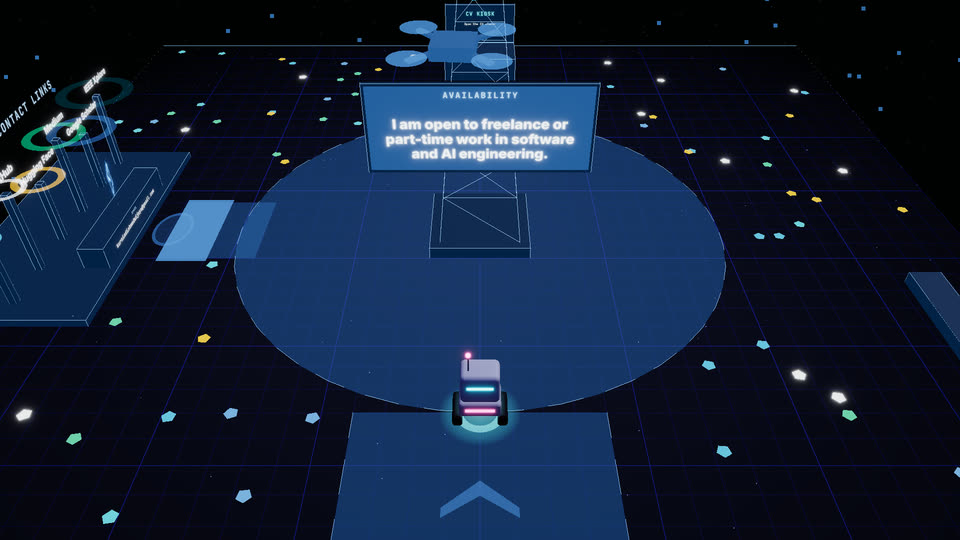
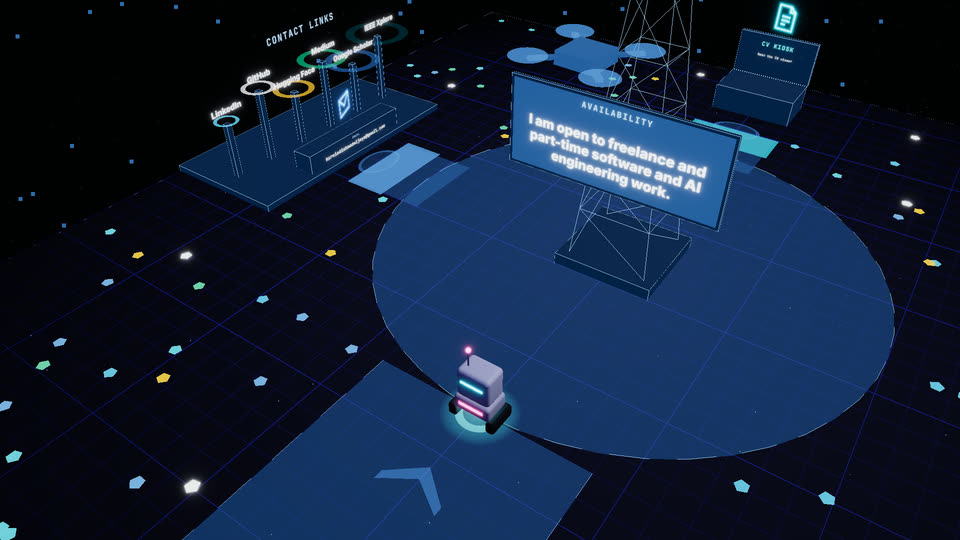
docs(readme): refresh the hero and stills, Highlights Hall, current versions, tighter layout (#410)
* fix(content): point the Gen AI Leader badge at its final Credly URL

* docs(readme): hero runs through the Highlights Hall to the Wins station

* docs(readme): profile-style badges with current versions

* docs(readme): type the hidden drawer style element

* docs(readme): Highlights Hall line, tighter architecture, quick start, structure and docs

* docs(readme): faster hero approach and drive back; the still is the Impact Orbit pass

* docs(readme): Cloudflare badge links to the Pages docs (no redirect)

* docs(readme): quicker L3 ride and shorter holds to keep the hero under 6 MB

* docs(readme): 96-colour GIF palette keeps the hero under 6 MB

* docs(readme): re-capture the hero and floor stills from the current build

* docs(readme): current versions in the stack table

* docs(readme): keep the deploy line under 300 characters

* docs(readme): shorter badge messages so the version row fits one line

* docs(readme): Bun badge on the status row so both rows fit

diff --git a/scripts/readme-hero.ts b/scripts/readme-hero.ts
@@ -1,6 +1,6 @@
 #!/usr/bin/env bun
 /**
- * README media: the animated hero (boot card, intro, a boosted drive on L1, an elevator ride to
+ * README media: the animated hero (boot card, intro, a drive into the L1 Highlights Hall, an elevator ride to
  * L3 Project Roads) and one settled still per floor, captured from the static export.
  *
  *   bun run build && bun scripts/readme-hero.ts     # needs ffmpeg and gifsicle (brew install ffmpeg gifsicle)
@@ -18,10 +18,11 @@
  * the Ask AI pill shows as in production.
  */
 import { spawn, spawnSync } from "node:child_process";
-import { mkdirSync, readdirSync, rmSync, statSync } from "node:fs";
+import { existsSync, mkdirSync, readdirSync, readFileSync, rmSync, statSync, writeFileSync } from "node:fs";
 import { join } from "node:path";
 import { chromium, type Browser, type Page } from "@playwright/test";
 import { driveUntil, installVirtualClock, stepFrames, waitForQuiet } from "../e2e/vclock";
+import { stationOf } from "../src/experience/floors/lobby/hallLayout";
 
 const args = process.argv.slice(2);
 const framesOnly = args.includes("--frames-only");
@@ -29,11 +30,13 @@ const encodeOnly = args.includes("--encode-only");
 const PORT = 4391;
 const BASE = `http://127.0.0.1:${PORT}`;
 const FRAMES = "test-results/readme-hero";
+/** The hero frame index for hero.jpg (the reduced-motion still), written during the capture. */
+const STILL = join(FRAMES, "still.txt");
 const OUT = "docs/readme";
 /** At or above 1024 px the HUD stays on one row; DPR 1.6 gives 1920x1080 frames to downscale. */
 const VIEWPORT = { width: 1200, height: 675 };
 const DPR = 1.6;
-/** Captured at 20 fps (the preview MP4); the GIF keeps 10 fps, undithered, to stay under 6 MB. */
+/** Captured at 20 fps (the preview MP4); the GIF keeps 10 fps, 96 colours undithered, to stay under 6 MB. */
 const FPS = 20;
 const GIF_FPS = 10;
 const STRIDE = 60 / FPS;
@@ -53,9 +56,18 @@ const SETTLE_FRAME = 600;
 type HQ = {
   __hq: {
     store: { getState(): { phase: string; floor: string; ride: { stage: string } | null; goToFloor(f: string): void } };
-    rover: { drawCalls: number; speed: number; autopilot: { state: string } | null };
+    rover: { x: number; drawCalls: number; speed: number; autopilot: { state: string } | null };
+    probes: { hallPremium: { state: string; wake: Record<string, number> } };
   };
 };
+
+/** The autopilot done and the rover nearly stopped (on a door pad the room opens, so any phase). */
+const parked = () => {
+  const w = window as unknown as HQ;
+  const state = w.__hq.rover.autopilot?.state;
+  return state !== "pending" && state !== "driving" && w.__hq.rover.speed < 0.3;
+};
+const hallReady = () => (window as unknown as HQ).__hq.probes.hallPremium.state === "ready";
 
 const live = () => {
   const w = window as unknown as Partial<HQ>;
@@ -92,7 +104,7 @@ async function recordUntil(page: Page, check: () => boolean, max: number, stride
 let statsBody: string | null = null;
 async function loadStats() {
   try {
-    const res = await fetch("https://kurniadi.pages.dev/api/stats");
+    const res = await fetch("https://shinyq.my.id/api/stats");
     if (res.status === 200) statsBody = await res.text();
   } catch {}
 }
@@ -139,18 +151,27 @@ async function hero(browser: Browser) {
     await recordUntil(page, () => (window as unknown as HQ).__hq.store.getState().phase === "explore", 600, STRIDE * 3);
     await record(page, 18);
 
-    // 3. Boosted drive past the hologram (Shift + S: toward the camera from the spawn view), then a glide.
-    await page.keyboard.down("Shift");
-    await page.keyboard.down("s");
-    await record(page, 66);
-    await page.keyboard.up("s");
-    await page.keyboard.up("Shift");
-    await record(page, 15);
+    // 3. Highlights Hall: autopilot along the lead road under the gateway arch (its light curtain sweeps once), down the
+    // spine between the Impact Orbit and the Signal Spire to the Wins station, which wakes (its drawer stays hidden).
+    if (!(await page.evaluate(hallReady))) await driveUntil(page, hallReady, { maxFrames: 1200, batch: 10 });
+    const drawer = await page.addStyleTag({ content: '[data-testid="room-drawer"] { visibility: hidden !important; }' });
+    await page.evaluate((point) => {
+      (window as unknown as { __hq: { rover: { autopilot: unknown } } }).__hq.rover.autopilot = { point, state: "pending" };
+    }, stationOf("wins").pad);
+    // The Lobby approach at 5x up to the lead road, the gate and the plaza at 2x; the still is the Impact Orbit pass.
+    await recordUntil(page, () => (window as unknown as HQ).__hq.rover.x > 26, 3600, STRIDE * 5);
+    await recordUntil(page, () => (window as unknown as HQ).__hq.rover.x > 46, 1800, STRIDE * 2);
+    writeFileSync(STILL, String(shot - 1));
+    await recordUntil(page, parked, 1800, STRIDE * 2);
+    await recordUntil(page, () => (window as unknown as HQ).__hq.probes.hallPremium.wake.wins > 0.99, 600);
+    await record(page, 12);
+    await page.keyboard.press("Escape");
+    await drawer.evaluate((el) => (el as Element).remove());
 
-    // 4. Elevator to L3: the drive to the car at 3x, the ride at 1x, the roll-on at 2x, then a hold.
+    // 4. Elevator to L3: the drive back to the car at 6x, the ride at about 1.7x, the roll-on at 3x, then a hold.
     await page.evaluate(() => (window as unknown as HQ).__hq.store.getState().goToFloor("L3"));
-    await recordUntil(page, () => (window as unknown as HQ).__hq.store.getState().ride?.stage === "moving", 1800, STRIDE * 3);
-    await recordUntil(page, () => (window as unknown as HQ).__hq.store.getState().floor === "L3", 1800);
+    await recordUntil(page, () => (window as unknown as HQ).__hq.store.getState().ride?.stage === "moving", 3600, STRIDE * 6);
+    await recordUntil(page, () => (window as unknown as HQ).__hq.store.getState().floor === "L3", 1800, 5);
     await recordUntil(
       page,
       () => {
@@ -160,9 +181,9 @@ async function hero(browser: Browser) {
         return s.phase === "explore" && !s.ride && state !== "pending" && state !== "driving" && w.__hq.rover.speed < 0.3;
       },
       2400,
-      STRIDE * 2,
+      STRIDE * 3,
     );
-    await record(page, 36);
+    await record(page, 18);
   } finally {
     await context.close();
   }
@@ -239,9 +260,10 @@ if (!framesOnly && !ONLY) {
   const input = ["-framerate", String(FPS), "-i", join(FRAMES, "%04d.png")];
   ff(...input, "-vf", "scale=1280:-2:flags=lanczos", "-c:v", "libx264", "-pix_fmt", "yuv420p", "-crf", "26", "-preset", "slow", "-movflags", "+faststart", join(FRAMES, "hero.mp4"));
   const raw = join(FRAMES, "hero-raw.gif");
-  ff(...input, "-vf", `fps=${GIF_FPS},scale=960:-1:flags=lanczos,split[a][b];[a]palettegen=max_colors=128:stats_mode=diff[p];[b][p]paletteuse=dither=none:diff_mode=rectangle`, "-loop", "0", raw);
+  ff(...input, "-vf", `fps=${GIF_FPS},scale=960:-1:flags=lanczos,split[a][b];[a]palettegen=max_colors=96:stats_mode=diff[p];[b][p]paletteuse=dither=none:diff_mode=rectangle`, "-loop", "0", raw);
   const lossy = spawnSync("gifsicle", ["-O3", "--lossy=100", raw, "-o", join(OUT, "hero.gif")], { stdio: "inherit" });
   if (lossy.status !== 0) throw new Error("gifsicle failed");
-  ff("-i", framePath(Math.round(shot * Number(process.env.HERO_STILL ?? 0.3))), "-vf", "scale=1600:-1:flags=lanczos", "-q:v", "3", join(OUT, "hero.jpg"));
+  const still = process.env.HERO_STILL ? Math.round(shot * Number(process.env.HERO_STILL)) : existsSync(STILL) ? Number(readFileSync(STILL, "utf8")) : Math.round(shot * 0.3);
+  ff("-i", framePath(still), "-vf", "scale=1600:-1:flags=lanczos", "-q:v", "3", join(OUT, "hero.jpg"));
   for (const f of readdirSync(OUT).sort()) console.log(`${f}: ${(statSync(join(OUT, f)).size / 1024).toFixed(0)} KB`);
 }

diff --git a/README.md b/README.md
@@ -8,30 +8,30 @@
 
 Pilot a small Screen Rover through five floors of projects, career, writing and contact details, or read it all as a fast, accessible website.
 
-[![CI](https://github.com/ShinyQ/ShinyQ-HQ/actions/workflows/ci.yml/badge.svg?branch=main)](https://github.com/ShinyQ/ShinyQ-HQ/actions/workflows/ci.yml)
-[![Deploy](https://github.com/ShinyQ/ShinyQ-HQ/actions/workflows/deploy.yml/badge.svg)](https://github.com/ShinyQ/ShinyQ-HQ/actions/workflows/deploy.yml)
-[![Live site](https://img.shields.io/badge/live-shinyq.my.id-22d3ee?logo=cloudflarepages&logoColor=white)](https://shinyq.my.id)
+[![CI](https://img.shields.io/github/actions/workflow/status/ShinyQ/ShinyQ-HQ/ci.yml?branch=main&label=CI&logo=githubactions&logoColor=white&style=flat-square&labelColor=0B0A20)](https://github.com/ShinyQ/ShinyQ-HQ/actions/workflows/ci.yml)
+[![Deploy](https://img.shields.io/github/actions/workflow/status/ShinyQ/ShinyQ-HQ/deploy.yml?branch=main&label=Deploy&logo=cloudflarepages&logoColor=white&style=flat-square&labelColor=0B0A20)](https://github.com/ShinyQ/ShinyQ-HQ/actions/workflows/deploy.yml)
+[![Live site](https://img.shields.io/badge/live-shinyq.my.id-6EE7FF?logo=googlechrome&logoColor=white&style=flat-square&labelColor=0B0A20)](https://shinyq.my.id)
+[![Bun 1.4.3](https://img.shields.io/badge/Bun-1.4.3-6EE7FF?logo=bun&logoColor=white&style=flat-square&labelColor=0B0A20)](https://bun.sh)
 <br>
-[![Next.js 16](https://img.shields.io/badge/Next.js-16-000000?logo=nextdotjs&logoColor=white)](https://nextjs.org)
-[![React 19](https://img.shields.io/badge/React-19-149eca?logo=react&logoColor=white)](https://react.dev)
-[![three.js](https://img.shields.io/badge/three.js-R3F-000000?logo=threedotjs&logoColor=white)](https://threejs.org)
-[![TypeScript](https://img.shields.io/badge/TypeScript-strict-3178c6?logo=typescript&logoColor=white)](https://www.typescriptlang.org)
-[![Tailwind CSS 4](https://img.shields.io/badge/Tailwind_CSS-4-06b6d4?logo=tailwindcss&logoColor=white)](https://tailwindcss.com)
-[![Cloudflare](https://img.shields.io/badge/Cloudflare-Pages_%2B_Workers_AI-f38020?logo=cloudflare&logoColor=white)](https://pages.cloudflare.com)
-[![Bun](https://img.shields.io/badge/Bun-1.4.3-000000?logo=bun&logoColor=white)](https://bun.sh)
+[![Next.js 16.4.5](https://img.shields.io/badge/Next.js-16.4.5-6EE7FF?logo=nextdotjs&logoColor=white&style=flat-square&labelColor=0B0A20)](https://nextjs.org)
+[![React 19.3](https://img.shields.io/badge/React-19.3-A78BFA?logo=react&logoColor=white&style=flat-square&labelColor=0B0A20)](https://react.dev)
+[![three.js r187](https://img.shields.io/badge/three.js-r187-6EE7FF?logo=threedotjs&logoColor=white&style=flat-square&labelColor=0B0A20)](https://threejs.org)
+[![TypeScript 6](https://img.shields.io/badge/TypeScript-6.0-A78BFA?logo=typescript&logoColor=white&style=flat-square&labelColor=0B0A20)](https://www.typescriptlang.org)
+[![Tailwind CSS 4.3](https://img.shields.io/badge/Tailwind_CSS-4.3-6EE7FF?logo=tailwindcss&logoColor=white&style=flat-square&labelColor=0B0A20)](https://tailwindcss.com)
+[![Cloudflare](https://img.shields.io/badge/Cloudflare-Pages_%2B_Workers_AI-A78BFA?logo=cloudflare&logoColor=white&style=flat-square&labelColor=0B0A20)](https://developers.cloudflare.com/pages/)
 
-**[Live site](https://shinyq.my.id)** · **[Classic site](https://shinyq.my.id/en?view=classic)** · **[Ask the HQ](docs/features.md#ask-the-hq-ai-qa)** · **[Features](docs/features.md)** · **[Docs](#docs)**
+**[Enter the 3D HQ](https://shinyq.my.id/en?view=3d)** · **[Classic site](https://shinyq.my.id/en?view=classic)** · **[Ask the HQ](docs/features.md#ask-the-hq-ai-qa)** · **[Features](docs/features.md)** · **[Docs](#docs)**
 
 <br>
 
 <a href="https://shinyq.my.id">
   <picture>
     <source media="(prefers-reduced-motion: reduce)" srcset="docs/readme/hero.jpg">
-    <img src="docs/readme/hero.gif" width="960" alt="Boot card, the intro (Rover wakes up and the camera orbits the Lobby as its landmarks light up), a boosted drive past the profile hologram, and an elevator ride up to the three L3 Project Roads directory boards">
+    <img src="docs/readme/hero.gif" width="960" alt="Boot card, the intro (Rover wakes up and the camera orbits the Lobby as its landmarks light up), a drive under the Highlights Hall gate past the Impact Orbit to the Wins trophy as it wakes, and an elevator ride up to the three L3 Project Roads directory boards">
   </picture>
 </a>
 
-<sub>Boot, intro, a boosted drive through the Lobby and an elevator ride to L3. Captured from the production build with <code>bun scripts/readme-hero.ts</code>.</sub>
+<sub>Boot, intro, a run through the Highlights Hall and an elevator ride to L3, captured from the production build (<code>bun scripts/readme-hero.ts</code>).</sub>
 
 </div>
 
@@ -49,22 +49,23 @@ Every piece of content is also a normal, accessible, bilingual (EN / ID) HTML pa
 ## Highlights
 
 - **Walkable 3D tower** in React Three Fiber: roads, plazas, teleporters, a glass elevator, five themed floors and a secret B1 Engine Room that opens once all five are visited.
+- **Highlights Hall**: one gate off the Lobby into a neon gallery of seven station exhibits around two light centrepieces, the Impact Orbit and the Signal Spire.
 - **Point-and-go**: hover or tap any glowing object to see its name and drive there; WASD, joystick and Shift boost too.
 - **Day and night**: a 4 minute twilight and neon night cycle from clock time, with a sun and moon that rise and set.
-- **Rover's onboarding**: a handheld-RPG text box introduction and "!" hint bubbles, plus the Rover menu (`>_`) with shortcuts to the best rooms.
-- **Ask the HQ** (shown as Ask Rover Assistant): grounded AI Q&A about the work, the career and this site, in Rover's own voice, on Workers AI (Gemma 4, then Mistral) with Groq as the backup and a knowledge pack in Workers KV, Turnstile, rate limits and output checks.
-- **Live Agent Office**: an L1 wing where ten Rovers mirror the owner's AI coding agents (Copilot, Claude Code, Codex) live, with helper drones, a ship-it pipeline tower and a day replay; also a card on the Classic home.
-- **Study guides**: certification study guides read in the site (a pdf.js reader over byte ranges from a private R2 bucket), from the Writing shelf, the certification dialogs and the L4 Study Vault.
+- **Rover's onboarding**: a handheld-RPG text box intro, "!" hint bubbles and the Rover menu (`>_`) with shortcuts to the best rooms.
+- **Ask the HQ** (shown as Ask Rover Assistant): grounded AI Q&A in Rover's voice on Workers AI (Gemma 4, then Mistral, Groq as the backup) over a knowledge pack in Workers KV, behind Turnstile, rate limits and output checks.
+- **Live Agent Office**: an L1 wing where ten Rovers mirror the owner's AI coding agents (Copilot, Claude Code, Codex) live, with a ship-it pipeline tower and a day replay.
+- **Study guides**: certification study guides in a pdf.js reader over byte ranges from a private R2 bucket.
 - **Glass Drawer**: one shared room panel with tabs, galleries, architecture holograms and a README terminal view.
-- **Public visit stats**: the site's own visit count (live today, an hourly rollup by a Cron Worker), shown as a hologram globe in the Lobby.
-- **Classic site**: static export, Lighthouse-gated (LCP under 2 s), fully bilingual, works without JavaScript.
-- **Performance gates in CI**: draw calls, triangles, shader programs, GPU memory and JS bytes on every PR that touches 3D code, on `main` and nightly.
+- **Public visit stats**: the site's own visit count (live today, an hourly Cron Worker rollup) on a hologram globe in the Lobby.
+- **Classic site**: static export, Lighthouse-gated (LCP under 2 s), fully bilingual, Atom feeds per locale, works without JavaScript.
+- **Performance gates in CI**: draw calls, triangles, shader programs, GPU memory and JS bytes on every PR that touches 3D code.
 
 ## The tower
 
 | | Floor | Route | What is there |
 |---|---|---|---|
-| <img src="docs/readme/floor-L1.jpg" width="300" alt="L1 Lobby"> | **L1 Lobby** | [`/en`](https://shinyq.my.id/en) | Profile hologram, stats ring, skills and certification walls, the Rover menu kiosk, the Visitor Observatory and the Agent Office. Behind it, the Highlights Hall. |
+| <img src="docs/readme/floor-L1.jpg" width="300" alt="L1 Lobby"> | **L1 Lobby** | [`/en`](https://shinyq.my.id/en) | Profile hologram, stats ring, skills and certification walls, the Rover menu kiosk, the Visitor Observatory and the Agent Office. Through one gate, the Highlights Hall: seven neon exhibits, the Impact Orbit and the Signal Spire. |
 | <img src="docs/readme/floor-L2.jpg" width="300" alt="L2 Career Road"> | **L2 Career Road** | [`/en/journey`](https://shinyq.my.id/en/journey) | One road forward in time: a plaza per year, rooms on both edges, teleporters, and the Workshop with a repo skyline. |
 | <img src="docs/readme/floor-L3.jpg" width="300" alt="L3 Project Roads"> | **L3 Project Roads** | [`/en/labs`](https://shinyq.my.id/en/labs) | Three roads leave the hub past three directory boards: Product Engineering north, AI Engineering south and the Data and ML spine straight to the Tech Reactor, where the wing roads meet it mirrored. Plus the Ops Control Room. |
 | <img src="docs/readme/floor-L4.jpg" width="300" alt="L4 Newsroom"> | **L4 Newsroom** | [`/en/library`](https://shinyq.my.id/en/library) | Headline wall, reader track shelves (one bay per theme, its best post face-out first), research, models and talks desks, the Topic Constellation and the Study Vault of certification study guides. |
@@ -90,7 +91,7 @@ flowchart TB
 
   subgraph databox["Storage and analytics"]
     kv[("KV<br/>knowledge pack, answer cache,<br/>stats snapshot")]
-      ae[("Analytics Engine<br/>ask, perf, visit events")]
+    ae[("Analytics Engine<br/>ask, perf, visit events")]
     wa["Web Analytics"]
   end
 
@@ -120,42 +121,37 @@ flowchart TB
 ```
 
 - **Content is data**: `content/site-content.json` (zod-validated, every string `{ en, id }`) generates pages, rooms, pods and missions.
-- **Static first**: `output: "export"`, no server runtime. The 3D tower is a lazy client chunk portaled over the HTML page, which stays the SEO and no-WebGL tier.
-- **One store, one intent bus**: input sources emit intents, a Director drives the elevator, rover and store each frame; the HUD talks to the scene only through the store.
-- **AI behind a pipeline**: kill switch, Turnstile, rate limits, PII scrub, retrieval from a knowledge pack in Workers KV (versioned pointer, bundled fallback), model call, output checks, KV cache.
-- **Agent Office**: `office-relay` hooks post signed beats, GitHub webhooks add runs and merges; the `hq-office` Durable Object keeps the live snapshot and an 8-day log, reached only through the Pages service binding.
-- **Anonymous stats**: beacons write to Analytics Engine; a Cron Worker rolls up finalized UTC days into one KV snapshot.
+- **Static first**: `output: "export"`, no server runtime; the 3D tower is a lazy client chunk over the HTML page, which stays the SEO and no-WebGL tier.
+- **One store, one intent bus**: inputs emit intents, a Director drives the elevator, rover and store each frame; the HUD reaches the scene only through the store.
+- **AI behind a pipeline**: kill switch, Turnstile, rate limits, PII scrub, retrieval from the KV knowledge pack, model call, output checks, cache.
+- **Agent Office and stats**: signed relay beats and GitHub webhooks feed the `hq-office` Durable Object (live snapshot, 8-day log); visit beacons roll up hourly into one KV snapshot.
 
 ## Tech stack
 
 | Layer | Technology |
 |---|---|
-| Framework | Next.js 16 (App Router, static export), React 19, TypeScript strict |
-| 3D | three.js, React Three Fiber, drei, postprocessing, troika text |
+| Framework | Next.js 16.4 (App Router, static export), React 19.3, TypeScript 6 strict |
+| 3D | three.js r187, React Three Fiber 9, drei 10, postprocessing, troika text |
 | State and i18n | zustand, next-intl, zod, MDX (next-mdx-remote) |
-| Styling | Tailwind CSS 4, Neon Grid design tokens, self-hosted subset fonts |
+| Styling | Tailwind CSS 4.3, Neon Grid design tokens, self-hosted subset fonts |
 | Edge and AI | Cloudflare Pages, Pages Functions, Workers AI, AI Gateway, Groq, KV, R2, Durable Objects, Analytics Engine, Turnstile, Cron Worker |
 | Testing | Vitest, Testing Library, Playwright (WebGL on SwiftShader), Lighthouse CI |
 | Tooling | Bun 1.4.3, Node 24.22.1 (pinned), ESLint, wrangler, GitHub Actions, gitleaks, Dependabot |
 
 ## Quick start
 
-Prerequisites: [Bun](https://bun.sh) 1.4.3 (`packageManager` in `package.json`), Node 24.22.1 (`.nvmrc`) and Chromium for the e2e tests.
+Needs [Bun](https://bun.sh) 1.4.3 (`packageManager` in `package.json`), Node 24.22.1 (`.nvmrc`) and Chromium for the e2e tests.
 
 ```bash
-bun install
-bunx playwright install chromium   # needed for the e2e tests
-bun run dev                        # http://localhost:3000/en
+bun install && bunx playwright install chromium
+bun run dev                         # http://localhost:3000/en
+bun run build && bun run serve      # static export to out/, served like Cloudflare Pages at http://127.0.0.1:4173/en
+bun run verify:quick                # typecheck, lint, unit tests, build and social cards: the pre-push check
+bun run e2e:changed                 # only the Playwright specs your changed paths affect (--dry prints the plan)
 ```
 
-Build and serve the static export like Cloudflare Pages does:
-
-```bash
-bun run build                      # static export to out/
-bun run serve                      # http://127.0.0.1:4173/en
-```
-
-### Scripts
+<details>
+<summary><b>All scripts</b></summary>
 
 | Script | What it does |
 |---|---|
@@ -167,12 +163,6 @@ bun run serve                      # http://127.0.0.1:4173/en
 | `bun run test` | Vitest unit, content and safety tests |
 | `bun run verify:quick` | Typecheck, lint, unit tests, build and social-card check: the pre-push check |
 | `bun run e2e:changed` | Playwright specs that cover your changed paths (`--dry` prints the plan) |
-
-<details>
-<summary><b>All scripts</b></summary>
-
-| Script | What it does |
-|---|---|
 | `bun run build:web` | Same as `build`, kept as an alias |
 | `bun run test:watch` | Vitest in watch mode |
 | `bun run bench` | Vitest benches (`tests/bench/`): `findPath` on the real floor layouts and palette typing against the pre-round-5 code; numbers for PR bodies, never a CI gate |
@@ -222,34 +212,24 @@ Section anchors, filters and deep links per route: [docs/features.md](docs/featu
 ## Project structure
 
 ```text
-content/         dataset, blog MDX, Ask knowledge and suggestions, perspectives, study guides, product allowlist, generated facts
-messages/        UI strings (en, id)
-functions/       Cloudflare Pages Functions: /api/ask, /api/rum, /api/visit, /api/stats, /api/guides/{slug}, /api/office
-workers/stats/   hq-stats Cron Worker: public visit stats rollup every hour into KV, live visit count
-workers/office/  hq-office Worker and Durable Object: the Agent Office state and 8-day log
-tools/           office-relay: the local agent hooks and installer for the Agent Office
-src/
-  app/           routes ([locale] pages, "/" redirect, OG cards, 404)
-  components/    Classic site UI, modals, CV and paper viewers
-  content/       schema, accessors, selectors, room views, forbidden patterns lint
-  experience/    3D tower: scene, floors, rover, camera, input, nav, missions
-  hud/           HTML HUD over the canvas: drawer, dialog, Ask dock, pickers
-  ask/           Ask client, protocol, knowledge pack
-  lib/ store/ i18n/
-scripts/         build steps, static server, e2e planning, renderers, evals, provisioning
-tests/           Vitest unit, content, HUD and Ask tests
-e2e/             Playwright suites, budgets and the perf lane
-docs/            features, content guide, design specs, plans, deploy, runbooks
+content/     dataset, blog MDX, Ask knowledge, perspectives, study guides, product allowlist, generated facts
+messages/    UI strings (en, id)
+src/         app routes, Classic UI, content schema and room views, 3D tower (experience/), HUD, Ask client, lib, store
+functions/   Pages Functions: /api/ask, /api/rum, /api/visit, /api/stats, /api/guides/{slug}, /api/office
+workers/     hq-stats Cron Worker (visit stats rollup), hq-office Worker and Durable Object (Agent Office)
+tools/       office-relay: local agent hooks and installer for the Agent Office
+scripts/     build steps, static server, e2e planning, renderers, evals, provisioning
+tests/ e2e/  Vitest unit, content, HUD and Ask tests; Playwright suites, budgets and the perf lane
+docs/        features, content guide, design specs, plans, deploy, runbooks, README media
 ```
 
 The full annotated layout is in [`docs/agents/folder-layout.md`](docs/agents/folder-layout.md).
 
 ## Testing and CI
 
-- **Locally**: `bun run verify:quick` then `bun run e2e:changed` before every push (about 5 minutes). Add `bun run e2e:perf` when touching the render path.
-- **CI** (`ci.yml`): check and build in parallel; on a PR, smart CI runs only the Playwright specs, 3D perf tests and Lighthouse URLs the changed paths affect; `main` runs the complement of the merged PR's green run, the nightly everything (6 e2e and 4 perf shards). `main` accepts changes only through PRs with green checks.
-- **Scheduled**: a full CI run, Ask evals against the real models, the game-first timeline trend and screenshots nightly; live facts and content-gap reports weekly; an hourly uptime check that keeps one `uptime` issue open while production fails.
-- **Security**: every HTML page carries its own script policy with the sha256 of each inline script (no `'unsafe-inline'`), checked by the build, the export script policy check, the deploy smoke check and e2e; gitleaks, a forbidden patterns lint over the content and SHA-pinned actions.
+- **Smart CI** (`ci.yml`): a PR runs only the Playwright specs, 3D perf tests and Lighthouse URLs its changed paths affect; `main` runs the complement of the merged PR's green run, the nightly everything (6 e2e and 4 perf shards). `main` takes changes only through PRs with green checks.
+- **Scheduled**: nightly full CI, Ask evals against the real models, timeline trend and screenshots; weekly live facts and content-gap reports; an hourly uptime check.
+- **Security**: a per-page script policy with the sha256 of each inline script (no `'unsafe-inline'`), checked at build, deploy and in e2e; gitleaks, a forbidden patterns lint over the content and SHA-pinned actions.
 
 | Gate | Budget |
 |---|---|
@@ -267,7 +247,7 @@ Details: [docs/features.md](docs/features.md#performance) and [`docs/agents/perf
 ## Deploy
 
 Production is the Cloudflare Pages project `kurniadi` at [shinyq.my.id](https://shinyq.my.id) (`kurniadi.pages.dev` redirects to it).
-`deploy.yml` runs on every merge to `main` (at once if the PR was green on the same tree, else after `main` CI), on dispatch and on the weekly facts merge: the `hq-office` Worker, `out/` plus `functions/`, a smoke check, then the `hq-stats` Worker. A red `main` CI rolls production back (`rollback.yml`).
+`deploy.yml` runs on every merge to `main` (at once if the PR was green on the same tree, else after `main` CI), on dispatch and on the weekly facts merge: `hq-office`, `out/` plus `functions/`, a smoke check, then `hq-stats`. A red `main` CI rolls production back (`rollback.yml`).
 
 Secrets, variables, Cloudflare resources and budgets: [docs/deploy.md](docs/deploy.md).
 
@@ -277,17 +257,11 @@ Secrets, variables, Cloudflare resources and budgets: [docs/deploy.md](docs/depl
 |---|---|
 | [`docs/features.md`](docs/features.md) | Every feature floor by floor, controls, Ask the HQ, CI, performance, status log |
 | [`docs/content.md`](docs/content.md) | Dataset, posts, perspectives, galleries, certifications, CV and paper PDFs, study guides, build story, public safety |
-| [`AGENTS.md`](AGENTS.md) | Repo conventions for contributors and agents: hard rules, workflow, key commands, budgets, index of the detail docs |
-| [`docs/agents/`](docs/agents/) | Detail rules by area: 3D experience, floors, HUD and drawer, content, styling, Ask, stats, Agent Office, performance, CI |
-| [`docs/decisions.md`](docs/decisions.md) | Dated log of owner decisions |
-| [Design spec](docs/superpowers/specs/2026-10-09-agent-hq-design.md) | Agent HQ design and appendices `agent-hq/01..08` |
-| [Ask the HQ design](docs/superpowers/specs/2026-10-11-ask-hq-design.md) | Models, security threat model, data freshness |
-| [`docs/superpowers/`](docs/superpowers/README.md) | Implementation plans and design specs with their status and PRs |
+| [`AGENTS.md`](AGENTS.md), [`docs/agents/`](docs/agents/) | Repo conventions for contributors and agents (hard rules, workflow, key commands, budgets) and the detail rules by area |
+| [`docs/decisions.md`](docs/decisions.md), [`docs/superpowers/`](docs/superpowers/README.md) | Dated owner decisions; implementation plans and design specs with their status and PRs |
+| [Design spec](docs/superpowers/specs/2026-10-09-agent-hq-design.md), [Ask the HQ design](docs/superpowers/specs/2026-10-11-ask-hq-design.md) | Agent HQ design and appendices `agent-hq/01..08`; Ask models, threat model, data freshness |
 | [`docs/deploy.md`](docs/deploy.md) | Deploys, secrets and variables, analytics, Cloudflare resources, Lighthouse budgets, headers |
-| [`docs/ask-runbook.md`](docs/ask-runbook.md) | Ask the HQ operations: provisioning, kill switch, cache purge, secret rotation, evals |
-| [`docs/study-guides-runbook.md`](docs/study-guides-runbook.md) | Study guides: preparing PDFs, the R2 bucket, the reader |
-| [`workers/stats/README.md`](workers/stats/README.md) | hq-stats Cron Worker runbook |
-| [`workers/office/README.md`](workers/office/README.md), [`tools/office-relay/README.md`](tools/office-relay/README.md) | Agent Office runbooks: the hq-office Worker, and the office-relay agent hooks |
+| Runbooks | [Ask the HQ](docs/ask-runbook.md), [study guides](docs/study-guides-runbook.md), [hq-stats](workers/stats/README.md), [hq-office](workers/office/README.md), [office-relay](tools/office-relay/README.md) |
 | [`docs/perf/r5-gpu.md`](docs/perf/r5-gpu.md) | GPU timing measurements on real hardware |
 
 ---
